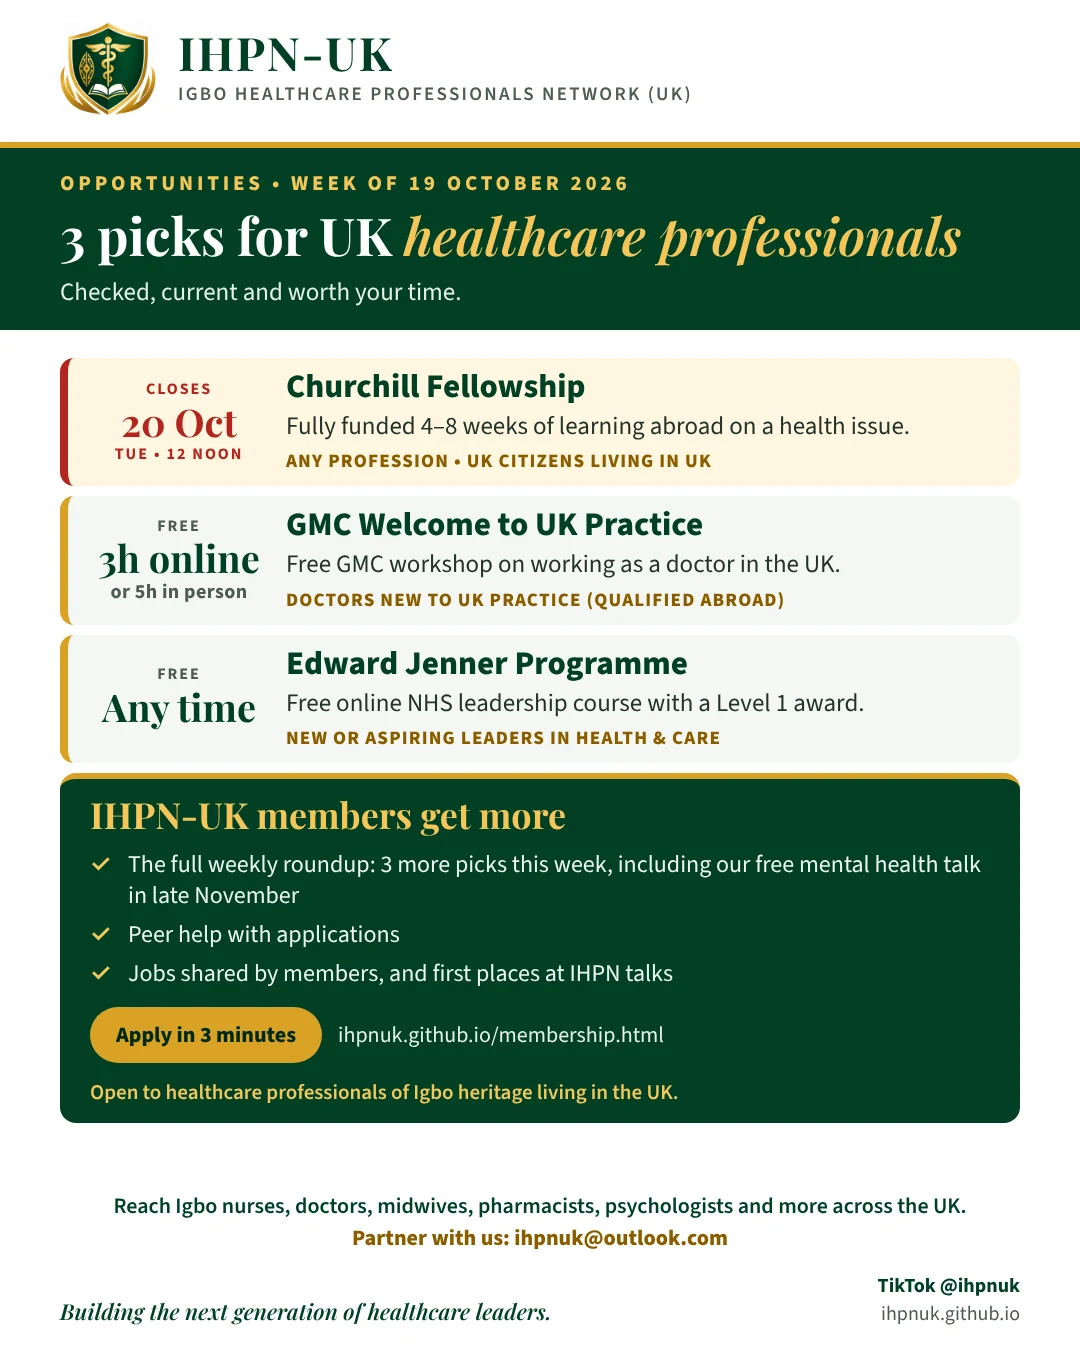
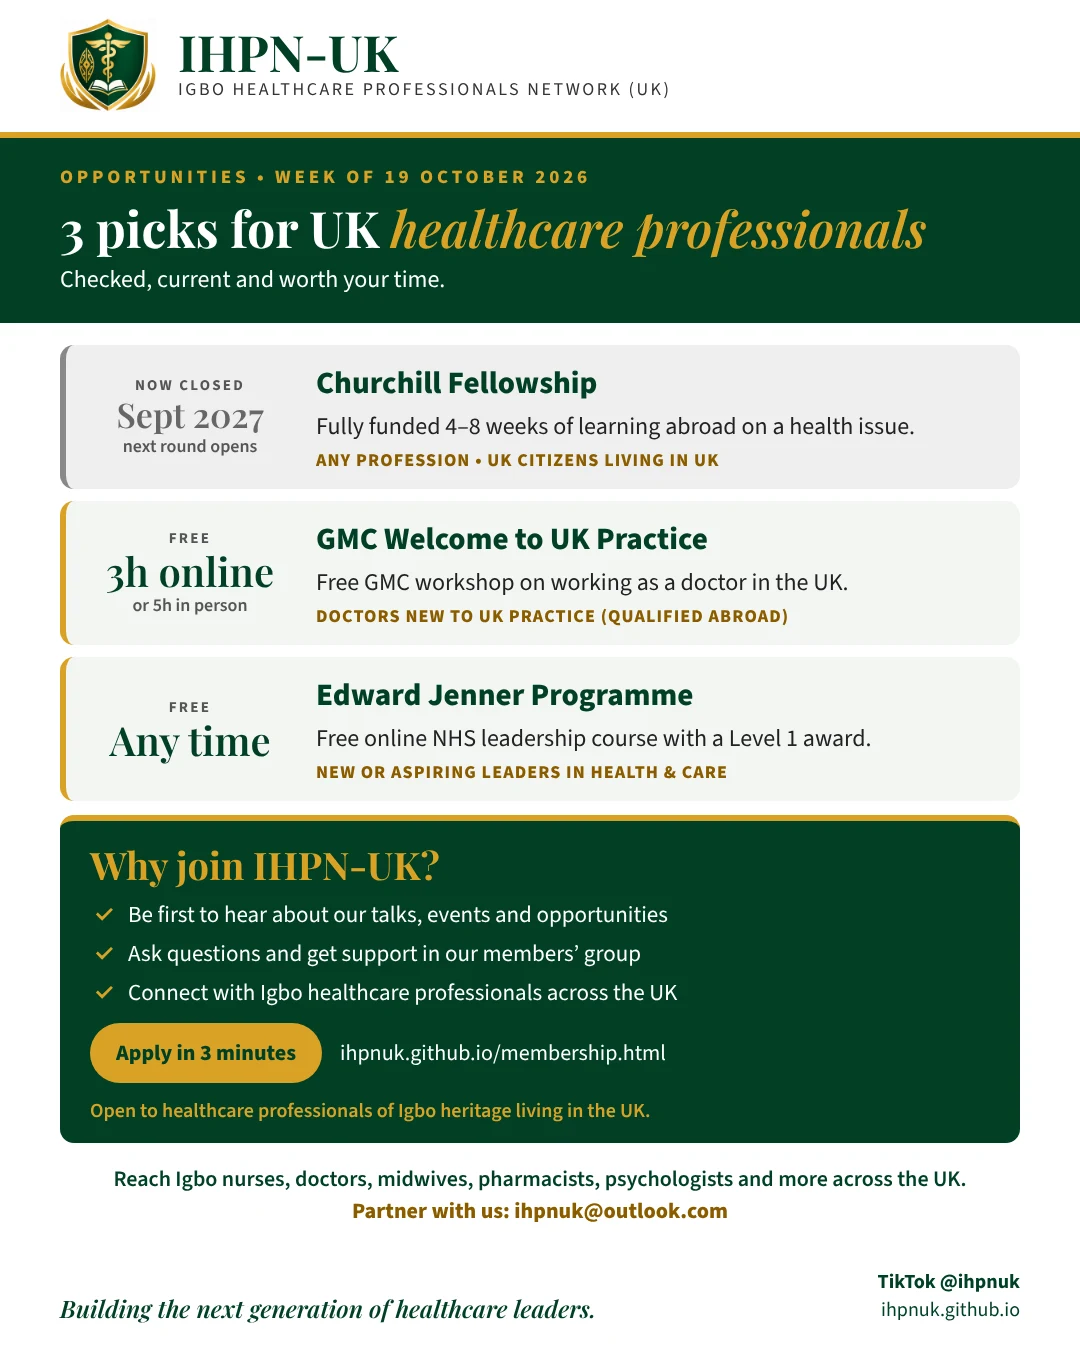
Opportunities page: soften members' perks to what IHPN-UK offers now, rebuild card image
Claude-Session: https://claude.ai/code/session_01TceWZ1n8TxHLDNLvaqp6sJ

diff --git a/opportunities-2026-10-19.html b/opportunities-2026-10-19.html
@@ -38,12 +38,12 @@
 <section class="page-hero"><div class="wrap">
   <span class="eyebrow">Opportunities &bull; 19 October 2026</span>
   <h1>Opportunities this week</h1>
-  <p class="lead">Every week we check fellowships, courses and events so our members don&rsquo;t have to. Here are three this week that are open to everyone.</p>
+  <p class="lead">We check fellowships, courses and events so you don&rsquo;t have to. Here are three picks this week that are open to everyone.</p>
 </div></section>
 
 <section>
   <div class="wrap" style="max-width:860px">
-    <img src="assets/opportunities/2026-10-19.webp" width="1080" height="1350" alt="IHPN-UK opportunities for the week of 19 October 2026: Churchill Fellowship, closes 20 October at 12 noon (now closed); GMC Welcome to UK Practice, free; Edward Jenner Programme, free. IHPN-UK members get the full weekly roundup, peer help with applications, jobs shared by members and first places at IHPN talks." style="border-radius:14px;box-shadow:var(--shadow);margin:0 auto 32px">
+    <img src="assets/opportunities/2026-10-19.webp?v=2" width="1080" height="1350" alt="IHPN-UK opportunities for the week of 19 October 2026: Churchill Fellowship, now closed, next round opens September 2027; GMC Welcome to UK Practice, free; Edward Jenner Programme, free. Why join IHPN-UK: be first to hear about our talks, events and opportunities, ask questions and get support in our members&rsquo; group, and connect with Igbo healthcare professionals across the UK." style="border-radius:14px;box-shadow:var(--shadow);margin:0 auto 32px">
     <div class="grid" style="gap:18px">
       <article class="card">
         <h2 style="font-size:1.4rem">Churchill Fellowship</h2>
@@ -68,8 +68,8 @@
   <div class="wrap" style="max-width:860px">
     <span class="eyebrow">Membership</span>
     <div class="rule"></div>
-    <h2>IHPN-UK members get more</h2>
-    <p>The full weekly roundup (three more picks this week, including our free mental health talk in late November), peer help with applications, jobs shared by members, and first places at IHPN-UK talks.</p>
+    <h2>Why join IHPN-UK?</h2>
+    <p>Members are the first to hear about our talks, events and opportunities, including our free mental health talk planned for late November. You can ask questions and get support in our members&rsquo; group, and connect with Igbo healthcare professionals across the UK.</p>
     <p>Membership is open to healthcare professionals of Igbo heritage living in the UK.</p>
     <p><a class="btn btn-gold" href="membership.html">Apply to join in 3 minutes</a></p>
     <p style="margin-top:28px"><em>Reach Igbo nurses, doctors, midwives, pharmacists, psychologists and more across the UK. <a href="mailto:ihpnuk@outlook.com">Partner with us</a>.</em></p>
